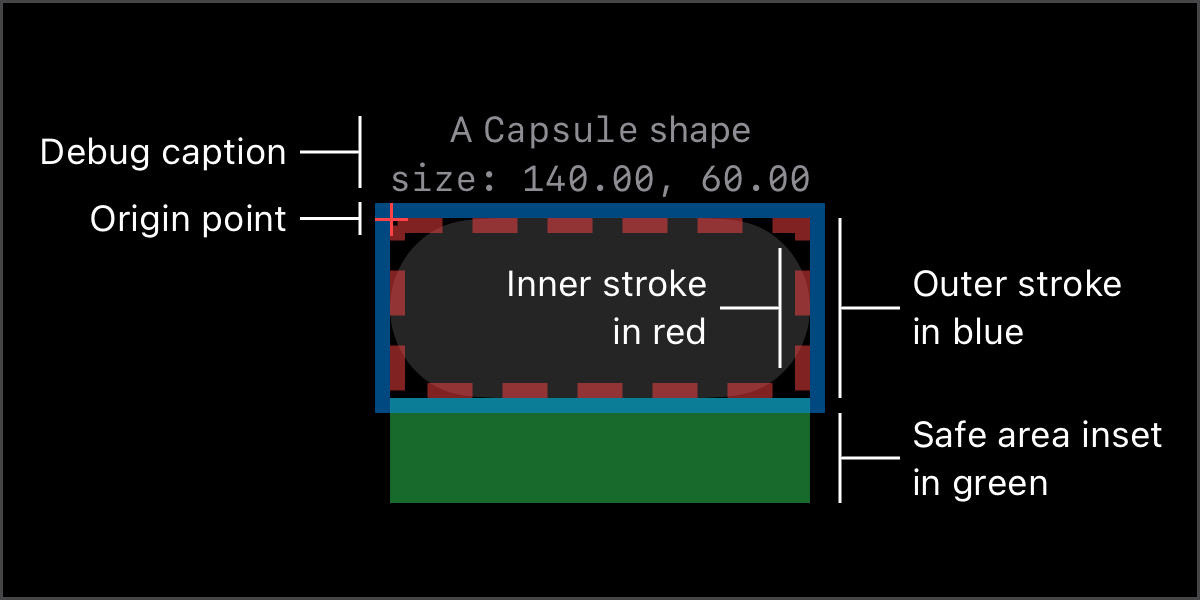
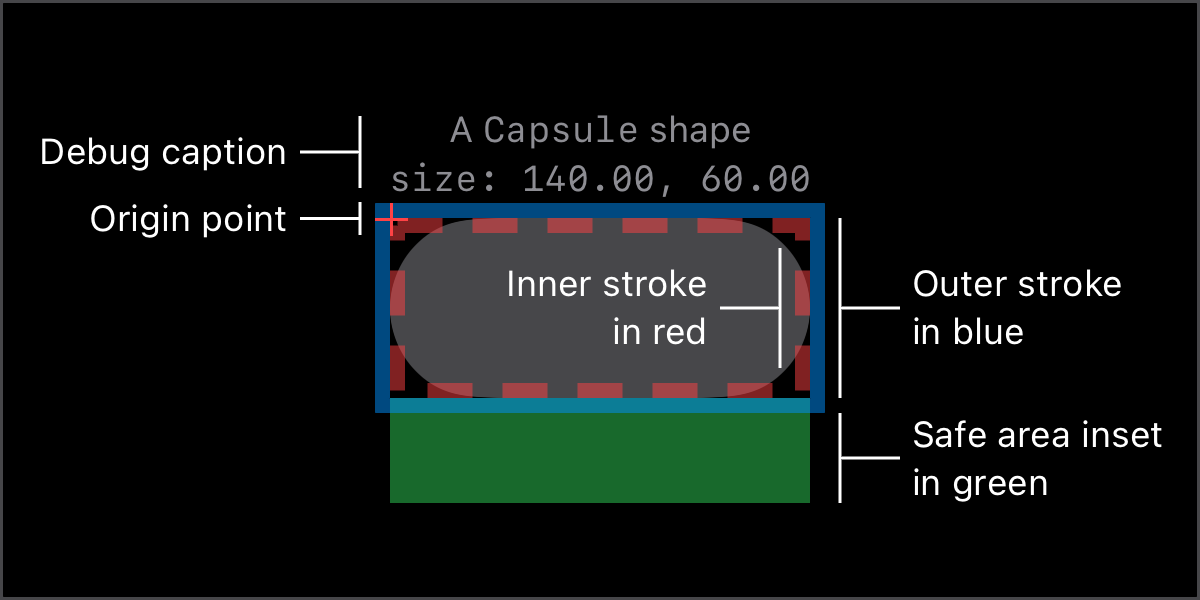
make capsule more visible in debug-overlay-components

Changed region(s): [[0.3083, 0.36, 0.6783, 0.66]]

diff --git a/sources/illustrations/DebugOverlayModifier+Illustrations.swift b/sources/illustrations/DebugOverlayModifier+Illustrations.swift
@@ -21,7 +21,7 @@ extension DebugOverlayModifier.Illustrations {
     static var components: DocumentationIllustration {
         DocumentationIllustration(height: 200) {
             Capsule()
-            .fill(.quaternary)
+            .fill(.gray.secondary)
             .frame(width: 140, height: 60)
             .debugOverlay(.caption("A `Capsule` shape"), .size, .alignment(.outerTop))
             .overlay {
